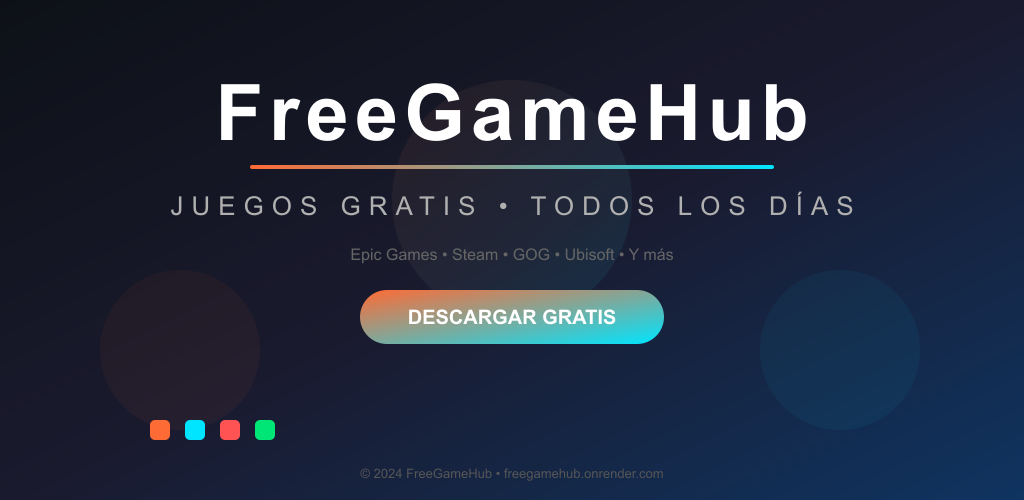
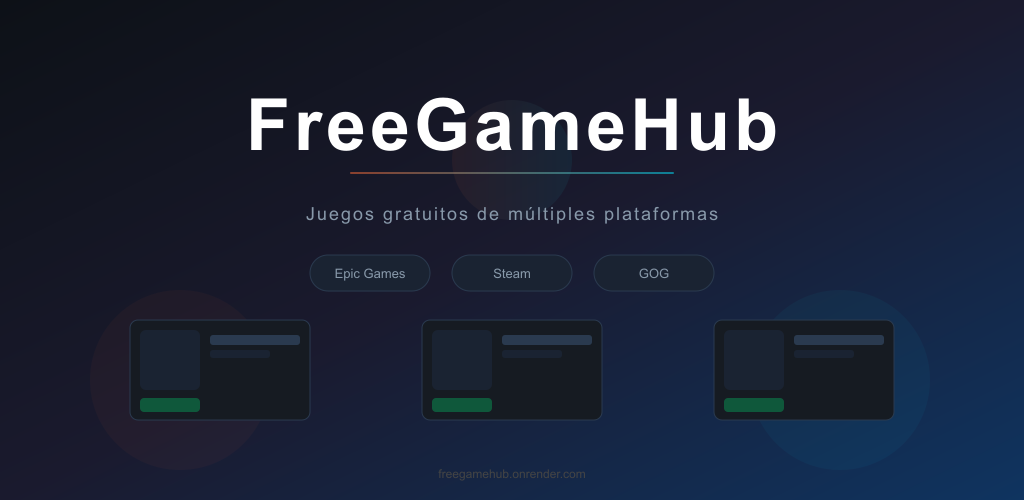
fix: remove promotional content from Play Store metadata to comply with Google Metadata policy

diff --git a/PLAY_STORE_LISTING.md b/PLAY_STORE_LISTING.md
@@ -5,57 +5,46 @@
 **Nombre de la app:** FreeGameHub
 **Idioma:** Español
 **Breve descripción (80 caracteres máx.):**
-Descubre los mejores juegos gratis cada día. ¡Nunca pagues por un juego otra vez!
+Busca ofertas de juegos gratis de Epic Games, Steam y GOG.
 
 **Descripción completa:**
 ---
-FreeGameHub es tu plataforma definitiva para descubrir juegos gratis de todas las plataformas. Te avisamos automáticamente cuando hay nuevos juegos gratuitos disponibles en Epic Games, Steam, GOG y más.
+FreeGameHub es una aplicación que reúne en un solo lugar los juegos gratuitos disponibles en Epic Games, Steam, GOG y otras plataformas.
 
-🎮 **Características principales:**
+**Características:**
 
-• **Juegos gratis actualizados:** Recibe los últimos juegos gratuitos de múltiples fuentes en un solo lugar.
-• **Notificaciones inteligentes:** Te avisamos al instante cuando un nuevo juego gratis está disponible.
-• **Filtros avanzados:** Busca por plataforma, género, fecha y popularidad.
-• **Modo oscuro:** Interfaz elegante con tema oscuro para cuidar tu vista.
-• **Soporte multi-idioma:** Disponible en español e inglés.
-• **Sin publicidad:** Experiencia limpia y sin interrupciones.
+• **Juegos gratis actualizados:** Consulta los juegos gratuitos disponibles de múltiples fuentes.
+• **Notificaciones:** Recibe avisos cuando un nuevo juego gratis está disponible.
+• **Filtros:** Busca por plataforma, género y fecha.
+• **Modo oscuro:** Interfaz con tema oscuro.
+• **Multi-idioma:** Disponible en español e inglés.
+• **Sin publicidad:** Experiencia sin anuncios.
 
-🔥 **Categorías destacadas:**
-• Juegos AAA gratis
-• Ofertas temporales
-• Juegos recomendados
-• Próximos lanzamientos gratuitos
-
-⚡ **¿Por qué FreeGameHub?**
-• Actualizaciones en tiempo real
-• Fuentes verificadas
-• Interfaz moderna y rápida
-• 100% gratuito
-
-Descarga FreeGameHub y empieza a expandir tu biblioteca de juegos sin gastar un centavo. ¡Los mejores juegos gratis te esperan!
+**Categorías de juegos:**
+- Juegos de diversas plataformas
+- Ofertas por tiempo limitado
+- Próximos lanzamientos gratuitos
 
 ---
 
 **Categoría:** Juegos > Utilidades
-**Etiquetas:** juegos gratis, epic games, ofertas, gaming, ahorro
+**Etiquetas:** juegos gratis, epic games, ofertas, juegos, videojuegos
 
 ## Gráficos requeridos
 
 | Asset | Tamaño | Descripción |
 |---|---|---|
-| Icono de la app | 512x512 px (32-bit PNG) | Usar el ícono actual del control con glow cyan |
+| Icono de la app | 512x512 px (32-bit PNG) | Icono actual con las siglas FG |
 | Feature Graphic | 1024x500 px (JPG o PNG) | Banner principal en Play Store |
-| Capturas de pantalla (teléfono) | Mín. 2, máx. 8 | 1240x2688 px (Android 12+) o 1080x1920 px |
+| Capturas de pantalla (teléfono) | Mín. 2, máx. 8 | 1080x1920 px o 1240x2688 px |
 | Capturas de pantalla (tablet) | 2048x2732 px o 2560x1600 px (opcional) |
-| Video destacado | URL de YouTube (opcional) |
 
-## Feature Graphic (texto sugerido para diseñador)
+## Feature Graphic (referencia de diseño)
 
 Crear un banner horizontal con:
-- Fondo degradado: #1a1a2e → #0f3460
+- Fondo degradado oscuro
 - Logo de FreeGameHub centrado
-- Texto: "JUEGOS GRATIS. TODOS LOS DÍAS." en blanco
-- Algunos iconos de juegos flotando
+- Capturas representativas del contenido de la aplicación
 
 ## Política de Privacidad
 